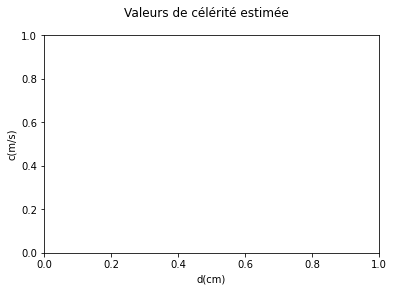
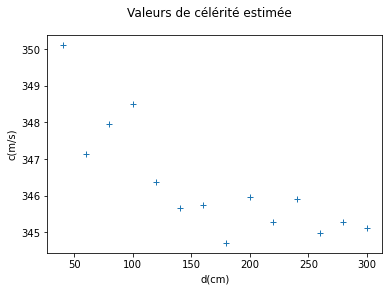
Mise à jour du site

diff --git a/searchindex.js b/searchindex.js
@@ -1,1 +1,1 @@
-Search.setIndex({docnames:["intro_python","notebook/complement","notebook/exo_general","notebook/exo_polyfit","notebook/exo_science","notebook/exo_science_2"],envversion:{"sphinx.domains.c":2,"sphinx.domains.changeset":1,"sphinx.domains.citation":1,"sphinx.domains.cpp":3,"sphinx.domains.index":1,"sphinx.domains.javascript":2,"sphinx.domains.math":2,"sphinx.domains.python":2,"sphinx.domains.rst":2,"sphinx.domains.std":2,"sphinx.ext.intersphinx":1,sphinx:56},filenames:["intro_python.md","notebook/complement.md","notebook/exo_general.md","notebook/exo_polyfit.md","notebook/exo_science.md","notebook/exo_science_2.md"],objects:{},objnames:{},objtypes:{},terms:{"001144379410995":5,"05293999024471903":3,"085e":5,"0x7f1137512eb0":4,"0x7f114441a1f0":4,"0x7f3701688100":[],"0x7f87a7f1be20":[],"0x7f87a88cc370":[],"0x7f8a1bedceb0":[],"0x7f8a1c88c1f0":[],"0x7fa57b695d60":[],"0x7fa58859d1f0":[],"0x7fd43589d7c0":[],"0x7fd4362441f0":[],"0x7ff4d0997e80":[],"0x7ff4d134f1f0":[],"100":[2,3],"1000":5,"1000000":5,"100k":5,"10700":5,"10850":5,"10ml":3,"11000":5,"127":2,"139855247404751":3,"150":3,"164":3,"1741":1,"1742":1,"1743":1,"1744":1,"1745":1,"196":3,"200":3,"2000":[2,4],"208":5,"250":3,"254":2,"271":1,"272":1,"273":1,"274":1,"275":[1,3],"27996e413080":[],"294":3,"300":3,"3315935386808m":5,"345m":5,"346":5,"350":3,"350m":5,"354":3,"396":3,"397":1,"398":1,"399":1,"400":[1,3],"401":1,"450":3,"481":3,"497":3,"500":3,"5050":2,"5177d4a278f0":1,"558":3,"582":3,"5mg":3,"640nm":3,"649nm":3,"665":3,"7337275410079":[],"740":[],"741":3,"8048891cc3a0":1,"985208000000001e":5,"9985":5,"\u00e9cart":5,"\u00e9crire":[2,4,5],"\u00e9crit":1,"\u00e9critur":1,"\u00e9gal":3,"\u00e9l\u00e9ment":[0,1,2],"\u00e9nergi":4,"\u00e9nonc\u00e9":5,"\u00e9quation":[3,5],"\u00e9quival":5,"\u00e9t\u00e9":[1,5],"\u00e9talon":3,"\u00e9tant":[3,4],"\u00e9tude":[1,5],"\u00e9tudi":[3,5],"\u00e9tudi\u00e9":5,"\u00e9tudier":5,"\u00e9viter":1,"\u00e9volut":4,"\u00eatre":[2,4],"acc\u00e8d":[],"affich\u00e9":2,"ajust\u00e9":[],"al\u00e9atoir":[],"am\u00e8n":3,"annonc\u00e9":5,"appel\u00e9":1,"apr\u00e8":5,"associ\u00e9":[3,5],"assur\u00e9":5,"attach\u00e9":4,"biblioth\u00e8qu":[1,4,5],"capacit\u00e9":[3,5],"caract\u00e8r":[1,4,5],"caract\u00e9ristiqu":3,"carat\u00e9ristiqu":3,"carr\u00e9":[1,2,5],"cin\u00e9tiqu":4,"class":0,"coh\u00e9renc":3,"coh\u00e9rent":[3,5],"color\u00e9":3,"compl\u00e8t":[3,5],"compl\u00e9ment":[1,5],"compliqu\u00e9":1,"concat\u00e8n":2,"concat\u00e9n":5,"conna\u00eetr":[],"conseill\u00e9":5,"consid\u00e9r\u00e9":3,"cr\u00e9\u00e9":[2,5],"cr\u00e9e":2,"cr\u00e9er":[2,3,4,5],"cr\u00e9ez":5,"d\u00e9charg":5,"d\u00e9cider":5,"d\u00e9cimal":5,"d\u00e9clench\u00e9":1,"d\u00e9croissant":5,"d\u00e9finit":1,"d\u00e9j\u00e0":1,"d\u00e9passer":3,"d\u00e9pla\u00e7ant":4,"d\u00e9plac\u00e9":5,"d\u00e9router":1,"d\u00e9termin":[],"d\u00e9terminera":3,"degr\u00e9":[],"demand\u00e9":[1,2],"derni\u00e8r":2,"diff\u00e9rent":[3,5],"diff\u00e9rentiel":5,"dilu\u00e9":3,"dispers\u00e9":5,"distill\u00e9":3,"donn\u00e9":[2,3,4],"emp\u00eachent":1,"enl\u00e8v":5,"estim\u00e9":5,"ex\u00e9cut":[1,2],"exp\u00e9rimental":[],"exp\u00e9rimentaux":[],"expliqu\u00e9":5,"ferm\u00e9":1,"forc\u00e9ment":5,"fr\u00e9quemment":[],"g\u00e9lifi\u00e9":3,"g\u00e9rer":2,"gr\u00e2ce":5,"hypoth\u00e8s":3,"imbriqu\u00e9":1,"import":[1,4],"inf\u00e9rieur":[3,5],"ing\u00e9rer":[],"ingurgit\u00e9":3,"int":1,"int\u00e9r\u00eat":[],"interpr\u00e9teur":1,"journali\u00e8r":3,"l\u00e2ch\u00e9":4,"l\u00e9gend":5,"l\u00e9gend\u00e9":5,"l\u00e9gender":[4,5],"lin\u00e9air":[],"lyc\u00e9":0,"m\u00e8re":3,"m\u00e8tre":4,"m\u00e9thode":[3,5],"m\u00eame":[1,3,5],"ma\u00eetris":0,"majorit\u00e9":1,"mani\u00e8r":[1,3],"mat\u00e9riel":4,"mesur\u00e9":[3,5],"mod\u00e8l":[],"n\u00e9cessair":[0,2],"n\u00e9cessit":0,"n\u00e9gligeabl":3,"nomm\u00e9":5,"op\u00e9rat":4,"op\u00e9rateur":[1,2],"op\u00e9ratoir":3,"ordonn\u00e9":4,"p\u00e9riod":4,"patent\u00e9":3,"point\u00e9":1,"polyn\u00f4m":[],"pr\u00e8":5,"pr\u00e9alabl":0,"pr\u00e9c\u00e9demment":[3,5],"pr\u00e9c\u00e9dent":[3,5],"pr\u00e9ciser":2,"pr\u00e9l\u00e8ve":3,"pr\u00e9pa":0,"pr\u00e9sent":[],"pr\u00e9sent\u00e9":5,"pr\u00e9sentat":0,"pr\u00e9senter":[],"pr\u00e9voit":3,"premi\u00e8r":[2,5],"probl\u00e8m":1,"probl\u00e8matiqu":5,"programm\u00e9":5,"propos\u00e9":[3,5],"quantit\u00e9":3,"quatri\u00e8m":4,"r\u00e9alis":3,"r\u00e9alis\u00e9":[3,5],"r\u00e9fl\u00e9chir":[2,3,5],"r\u00e9fl\u00e9chira":4,"r\u00e9flexion":5,"r\u00e9gime":[3,5],"r\u00e9git":5,"r\u00e9gression":[],"r\u00e9gulier":5,"r\u00e9pertoir":[2,5],"r\u00e9pondr":2,"r\u00e9sistanc":3,"r\u00e9sultat":2,"r\u00e9utilis":4,"recherch\u00e9":1,"repr\u00e9sent":[3,4,5],"return":[1,2],"s\u00e9lection":5,"s\u00e9lectionn":5,"s\u00e9rie":2,"s\u00fbr":3,"signal\u00e9":1,"stock\u00e9":5,"sup\u00e9rieur":5,"syst\u00e8m":1,"t\u00e9l\u00e9charg\u00e9":5,"t\u00e9l\u00e9charger":5,"t\u00e9l\u00e9chargerez":5,"th\u00e9oriqu":5,"tir\u00e9":5,"titr\u00e9":5,"tr\u00e8":1,"trac\u00e9":3,"troisi\u00e8m":4,"trouv\u00e9":3,"utilis\u00e9":[1,3],"v\u00e9rific":5,"v\u00e9rifier":[1,2,3,5],"while":2,Les:[2,3,4,5],Une:[3,5],__call__:1,_ax:1,_base:1,_get_lin:1,_plot_arg:1,a_i:3,abciss:4,aberr:3,aberrant:5,absciss:4,absenc:5,accept:5,access:5,adapt:5,add_lin:1,additif:3,admettra:5,admiss:3,affich:[1,2,5],affin:3,afin:5,agit:4,ainsi:[3,5],air:5,ajust:3,algorithm:2,alimentair:3,allant:[],aller:5,allez:[2,4],allon:5,allur:5,alor:[1,3,5],alpha_:3,analys:3,anglai:1,appel:[1,2],append:2,appliqu:1,arduino:5,arg:1,argument:[2,5],arrai:1,arriv:1,arrondi:[],assez:1,attendu:[1,3],attent:[0,5],aurait:5,aussi:[1,3,5],automatiqu:4,automatis:5,autr:5,aux:[2,3,4,5],avec:[1,3,4,5],avez:[0,2,4,5],avoir:[4,5],axe:4,axes:1,b43b36e465ad:1,barr:3,be7f0a92039c:5,beer:3,besoin:[4,5],bien:[1,2,3,5],bilan:3,bin_to_volt:5,binair:5,bleu:3,blue:[],bon:1,bonbon:3,born:5,boucl:[4,5],broadcast:1,bute:1,c859c85d5b52:1,c_0:3,c_i:3,calcul:[1,4,5],calculatric:3,call:[1,5],calm:1,capacit:[3,5],car:[1,2],cbook:1,ceil:[],cela:[3,5],cell:1,centain:4,certain:[1,5],ces:[0,1,2,4,5],cet:5,cett:[0,1,2,3,5],chacun:2,chain:[1,5],chaqu:[2,5],charg:[],chemin:5,chercher:1,chiffr:[3,5],choisir:5,cibl:5,circuit:[3,5],circuit_rc_decharg:5,clair:[1,2,4],clairement:5,classiqu:[],clic:5,cliquer:5,cliquez:[2,4,5],codag:2,code:1,coder:4,coeffici:[],colonn:5,color:[],combien:2,comm:[2,3,5],commenc:5,commencez:2,comment:[],commis:1,comparaison:[],complet:5,comprend:1,comprendr:[2,5],compri:2,compt:[1,3],comptez:5,concentr:3,conclus:3,condensateur:[3,5],conform:5,connaiss:1,connaissez:1,connu:3,conseil:[2,4],consist:5,constant:5,constitu:4,constructeur:5,conten:[3,5],contenu:[2,5],contient:5,contraint:5,corporel:3,correct:[1,5],correspond:5,corrig:[1,2],cos:4,could:1,courant:2,courb:[4,5],courram:[],croix:[2,3,4,5],ctrl:2,dan:[0,2,3,5],dat:5,data:1,def:[1,2],defin:5,delta:5,demand:2,depui:4,des:[0,1,3],descript:5,dessou:[1,2,5],dessu:1,deux:[1,2,3,4,5],devez:[2,4,5],devoir:[2,5],devra:4,devrait:1,devrez:5,devriez:[4,5],dilu:3,dimens:1,dire:3,disciplin:0,dispos:[],dissou:3,distanc:5,distribut:5,dja:3,doit:2,donc:[1,2,3],donn:3,donne:5,donnees_exp:5,donnera:5,dose:3,droit:[3,5],e131:3,e_c:4,e_p:4,eau:3,ecart:5,ecrir:[2,5],effet:1,efficac:1,ell:[1,2,5],endroit:1,enregistr:5,enregistrez:2,ensembl:[0,5],ensuit:[1,2,3,5],entier:[1,2,5],entr:[1,2,3,5],env:1,environ:5,erreur:[2,3],errorbar:3,espac:5,essay:4,est:[1,3,4,5],estim:[3,5],estime_tau:5,exempl:5,exercic:[4,5],existant:1,exp:5,explic:1,express:3,extens:2,fabric:3,fair:[1,5],fait:[0,1,5],faudra:3,fauss:[],faut:[1,2,4],faux:2,fera:5,fermer:1,fichier:[2,4,5],file:1,fin:[2,5],first:1,flottant:5,foi:[2,5],fonction:[3,4,5],fonctionn:[2,5],font:1,form:[2,5],formul:1,fourni:5,frac:[3,4,5],from:1,frottement:4,fur:5,gard:5,garder:[1,3,5],get_next_color:1,getdiv:2,grand:5,grandeur:[3,5],graphiqu:[3,4,5],gross:1,habitud:1,harmoniqu:4,have:1,histogramm:5,ici:[1,2,3,5],identiqu:5,inc_i:3,incertitud:[3,5],inclu:2,indic:[4,5],influenc:3,inform:[4,5],initial:4,input:[1,5],instruct:[1,2,4,5],interval:4,invalid:1,ipython:[1,5],jour:3,jupybook:1,just:[],justement:[],kwarg:1,l_0:4,label:5,lambert:3,langag:0,laquel:2,last:[1,5],left:5,legend:4,len:2,leq:2,les:[0,2,3,4,5],lesquel:5,leur:5,lib:1,libr:[3,5],lien:5,lieu:5,lign:1,limitera:5,line2d:1,line:1,linestyl:5,liquid:3,list:[],localis:5,logiqu:1,loi:3,longueur:[2,3,4],lorsqu:1,m_dja:[],m_max:[],mai:5,mal:1,manger:3,manuel:4,marker:5,mass:[3,4],matplotlib:[1,4,5],maxim:3,maximal:3,mesur:[3,5],micro:3,microcontrolleur:5,microsecond:5,mieux:5,miniconda3:1,mline:1,mode:3,modul:[1,5],mol:3,molair:3,mond:1,montag:5,montrer:4,most:[1,5],mouvement:4,moyen:5,moyenn:[3,5],must:1,n_max:[],name:5,nameerror:5,navigateur:5,ndim:1,nombr:[2,3,5],non:[2,5],normal:5,normalize_kwarg:1,nou:5,nouveau:2,nouvel:1,nul:2,numpi:[1,3,4],observ:[4,5],observez:2,obstacl:5,obtenez:2,obtenir:[3,4,5],obtenu:5,obtient:3,officiel:1,ohm:3,omega:5,omega_0:4,ond:3,onglet:2,ont:[1,5],operand:1,option:[3,5],ordinateur:5,ordr:[3,5],organis:[4,5],origin:[],oscillateur:4,oubli:1,oubliez:[4,5],ouvr:5,ouvrir:[2,5],over:5,packag:1,par:[1,2,4,5],parc:1,parcourir:5,parcouru:2,parl:[],parti:[1,5],particuli:1,partir:5,pas:[1,3,4,5],pass:3,passant:[],penser:1,pensez:[1,4],pent:[],permet:[],permett:[4,5],permettront:1,permi:5,peu:[1,5],peut:[1,2,3,5],plein:4,plot:[1,5],plt:[1,3],plu:[1,5],plusieur:[3,5],point:[1,3,4,5],posit:4,possibl:3,potentiel:4,pour:[1,2,3,4,5],pourquoi:[1,2],pourra:5,pourrez:4,pouvez:5,pow:1,premier:[2,4],prenant:4,prend:[2,5],prendr:5,prendra:[4,5],prenez:1,prennent:2,pri:5,print:[1,2,5],produit:1,programm:[1,5],propag:5,propos:2,propr:2,pui:[2,3,5],puisqu:5,puiss:5,puissanc:1,pyplot:[1,5],python3:1,python:[3,5],pyzo:[2,5],qualit:3,quand:1,quatr:4,que:[0,1,2,3,4,5],quelconqu:[],quell:5,quelqu:[2,4,5],question:2,qui:[0,1,2,3,4,5],raideur:4,rais:1,raisonnabl:1,rang:2,rappel:[3,5],rapport:3,recent:[1,5],red:[],regroup:0,relat:3,relatif:5,reli:5,remarqu:5,rend:[1,3],renverra:2,renvoi:[1,2,5],renvoient:2,renvoy:1,reprend:5,ressort:4,retour:[1,2,5],retrouv:2,right:5,roug:4,sachant:5,sait:5,same:1,san:[3,4,5],sauf:1,savoir:1,scalei:1,scalex:1,scientifiqu:[0,1,5],script:[1,4,5],second:[2,4],self:1,sera:[0,2,5],seront:[0,1,3,4],servant:5,set_ylabel:5,seul:[2,4,5],shape:1,show:3,sigma:5,signal:[1,4],signifi:[],significatif:[3,5],simpl:1,sin:4,site:1,soin:5,soit:[2,3,5],solut:[3,5],somm:2,somme_carr:2,somme_k:2,sommer:1,son:[1,2,5],sont:[1,2,3,4,5],sort:3,sou:[2,5],sourc:3,souvent:[1,4],sqrt:[1,3,4],statistiqu:5,stock:2,stocker:5,str:[1,5],subplot:1,sucr:3,suffisam:4,suit:2,suivant:[2,3,4,5],suivr:[0,4],suppos:4,supprim:3,suptitl:[],sur:[1,2,3,4,5],surtout:1,syntax:1,syntaxerror:1,t_i:5,t_m:5,tableau:5,taill:1,tau:[3,5],tel:[2,3],temp:[0,3,4,5],temporel:4,tenir:3,tension:5,tester:[1,2,3],thi:1,tient:3,time:3,tirag:[],titr:5,titrer:4,togeth:1,tou:[2,5],toujour:[4,5],tout:[1,5],traceback:[1,5],tracer:[3,4,5],trait:4,traitera:5,transform:5,transmettr:5,travail:[0,5],trop:1,trouvent:1,trouver:5,trouverez:[2,5],tube:3,tup:1,type:[1,2,5],typeerror:1,u_0:5,u_c:5,u_i:3,u_sel:5,ucb:5,une:[0,3,4,5],uniform:5,unsupport:1,util:[1,5],utilis:[1,4],utilisera:[2,3],utiliserau:0,utilisez:[4,5],v_1:3,v_2:3,v_f:3,v_m:4,v_t:3,valabl:4,valeur:[1,2,3,5],valueerror:1,variabl:[3,5],variat:4,varier:5,vecteur:[1,3,5],vectorialis:4,vectoriel:4,veillez:5,ver:1,verbeux:1,vert:5,veuill:[],veut:[3,5],vide:4,visuel:[3,5],vitess:4,voici:[1,4],voir:4,voit:[],vol:5,volt:5,volum:3,vont:1,vos:[4,5],votr:[1,2,4,5],vou:[0,1,2,4,5],vrai:2,vraisemblabl:1,x_0:4,x_carr:1,x_i:[],x_m:4,y_adj:[],y_i:[],yerr:3,yield:1},titles:["El\u00e9ments de bases pour programmer en Python","<span class=\"section-number\">1. </span>Comprendre ses erreurs","<span class=\"section-number\">1. </span>S\u2019entra\u00eener.","<span class=\"section-number\">1. </span>S\u2019entra\u00eener (r\u00e9gression lin\u00e9aire)","<span class=\"section-number\">1. </span>S\u2019entra\u00eener","<span class=\"section-number\">2. </span>S\u2019entra\u00eener (Import et tirages al\u00e9atoires)"],titleterms:{"ajust\u00e9":3,"al\u00e9atoir":5,"c\u00e9l\u00e9rit\u00e9":5,"d\u00e9termin":3,"donn\u00e9":5,"el\u00e9ment":0,"entra\u00een":[2,3,4,5],"exp\u00e9rienc":5,"exp\u00e9rimental":5,"import":5,"lin\u00e9air":3,"m\u00eame":2,"mod\u00e8l":3,"parenth\u00e8s":1,"r\u00e9gression":3,"trac\u00e9":4,Les:1,Pas:1,absorb:3,analys:2,base:0,basiqu:1,boucl:2,cas:1,choix:2,code:2,coder:2,comprendr:1,dan:1,des:[2,4,5],diviseur:2,dosag:3,erreur:1,etud:5,exempl:[1,3],exercic:2,fonction:[1,2],les:1,list:2,mai:1,manipul:4,messag:1,multipl:5,numpi:5,par:3,polyfit:[],pour:0,programm:0,python:[0,1],random:5,ses:1,simpl:[2,3,4],soi:2,syntax:[],tirag:5,ultrason:5,une:[1,2],utilis:[2,3,5],vecteur:4}})
+Search.setIndex({docnames:["intro_python","notebook/complement","notebook/exo_general","notebook/exo_polyfit","notebook/exo_science","notebook/exo_science_2"],envversion:{"sphinx.domains.c":2,"sphinx.domains.changeset":1,"sphinx.domains.citation":1,"sphinx.domains.cpp":3,"sphinx.domains.index":1,"sphinx.domains.javascript":2,"sphinx.domains.math":2,"sphinx.domains.python":2,"sphinx.domains.rst":2,"sphinx.domains.std":2,"sphinx.ext.intersphinx":1,sphinx:56},filenames:["intro_python.md","notebook/complement.md","notebook/exo_general.md","notebook/exo_polyfit.md","notebook/exo_science.md","notebook/exo_science_2.md"],objects:{},objnames:{},objtypes:{},terms:{"001144379410995":5,"05293999024471903":3,"085e":5,"0x7f1137512eb0":[],"0x7f114441a1f0":[],"0x7f3701688100":[],"0x7f87a7f1be20":[],"0x7f87a88cc370":[],"0x7f8a1bedceb0":[],"0x7f8a1c88c1f0":[],"0x7fa57b695d60":[],"0x7fa58859d1f0":[],"0x7fd43589d7c0":[],"0x7fd4362441f0":[],"0x7fed7c2fdee0":4,"0x7fed7ccab3a0":4,"0x7ff4d0997e80":[],"0x7ff4d134f1f0":[],"100":[2,3],"1000":5,"1000000":5,"100k":5,"10700":5,"10850":5,"10ml":3,"11000":5,"127":2,"139855247404751":3,"150":3,"164":3,"1741":1,"1742":1,"1743":1,"1744":1,"1745":1,"196":3,"200":3,"2000":[2,4],"208":5,"250":3,"254":2,"271":1,"272":1,"273":1,"274":1,"275":[1,3],"27996e413080":[],"294":3,"300":3,"3315935386808m":5,"345m":5,"346":5,"350":3,"350m":5,"354":3,"396":3,"397":1,"398":1,"399":1,"400":[1,3],"401":1,"450":3,"481":3,"497":3,"500":3,"5050":2,"5177d4a278f0":1,"558":3,"582":3,"5mg":3,"640nm":3,"649nm":3,"665":3,"7337275410079":[],"740":[],"741":3,"8048891cc3a0":1,"985208000000001e":5,"9985":5,"\u00e9cart":5,"\u00e9crire":[2,4,5],"\u00e9crit":1,"\u00e9critur":1,"\u00e9gal":3,"\u00e9l\u00e9ment":[0,1,2],"\u00e9nergi":4,"\u00e9nonc\u00e9":5,"\u00e9quation":[3,5],"\u00e9quival":5,"\u00e9t\u00e9":[1,5],"\u00e9talon":3,"\u00e9tant":[3,4],"\u00e9tude":[1,5],"\u00e9tudi":[3,5],"\u00e9tudi\u00e9":5,"\u00e9tudier":5,"\u00e9viter":1,"\u00e9volut":4,"\u00eatre":[2,4],"acc\u00e8d":[],"affich\u00e9":2,"ajust\u00e9":[],"al\u00e9atoir":[],"am\u00e8n":3,"annonc\u00e9":5,"appel\u00e9":1,"apr\u00e8":5,"associ\u00e9":[3,5],"assur\u00e9":5,"attach\u00e9":4,"biblioth\u00e8qu":[1,4,5],"capacit\u00e9":[3,5],"caract\u00e8r":[1,4,5],"caract\u00e9ristiqu":3,"carat\u00e9ristiqu":3,"carr\u00e9":[1,2,5],"cin\u00e9tiqu":4,"class":0,"coh\u00e9renc":3,"coh\u00e9rent":[3,5],"color\u00e9":3,"compl\u00e8t":[3,5],"compl\u00e9ment":[1,5],"compliqu\u00e9":1,"concat\u00e8n":2,"concat\u00e9n":5,"conna\u00eetr":[],"conseill\u00e9":5,"consid\u00e9r\u00e9":3,"cr\u00e9\u00e9":[2,5],"cr\u00e9e":2,"cr\u00e9er":[2,3,4,5],"cr\u00e9ez":5,"d\u00e9charg":5,"d\u00e9cider":5,"d\u00e9cimal":5,"d\u00e9clench\u00e9":1,"d\u00e9croissant":5,"d\u00e9finit":1,"d\u00e9j\u00e0":1,"d\u00e9passer":3,"d\u00e9pla\u00e7ant":4,"d\u00e9plac\u00e9":5,"d\u00e9router":1,"d\u00e9termin":[],"d\u00e9terminera":3,"degr\u00e9":[],"demand\u00e9":[1,2],"derni\u00e8r":2,"diff\u00e9rent":[3,5],"diff\u00e9rentiel":5,"dilu\u00e9":3,"dispers\u00e9":5,"distill\u00e9":3,"donn\u00e9":[2,3,4],"emp\u00eachent":1,"enl\u00e8v":5,"estim\u00e9":5,"ex\u00e9cut":[1,2],"exp\u00e9rimental":[],"exp\u00e9rimentaux":[],"expliqu\u00e9":5,"ferm\u00e9":1,"forc\u00e9ment":5,"fr\u00e9quemment":[],"g\u00e9lifi\u00e9":3,"g\u00e9rer":2,"gr\u00e2ce":5,"hypoth\u00e8s":3,"imbriqu\u00e9":1,"import":[1,4],"inf\u00e9rieur":[3,5],"ing\u00e9rer":[],"ingurgit\u00e9":3,"int":1,"int\u00e9r\u00eat":[],"interpr\u00e9teur":1,"journali\u00e8r":3,"l\u00e2ch\u00e9":4,"l\u00e9gend":5,"l\u00e9gend\u00e9":5,"l\u00e9gender":[4,5],"lin\u00e9air":[],"lyc\u00e9":0,"m\u00e8re":3,"m\u00e8tre":4,"m\u00e9thode":[3,5],"m\u00eame":[1,3,5],"ma\u00eetris":0,"majorit\u00e9":1,"mani\u00e8r":[1,3],"mat\u00e9riel":4,"mesur\u00e9":[3,5],"mod\u00e8l":[],"n\u00e9cessair":[0,2],"n\u00e9cessit":0,"n\u00e9gligeabl":3,"nomm\u00e9":5,"op\u00e9rat":4,"op\u00e9rateur":[1,2],"op\u00e9ratoir":3,"ordonn\u00e9":4,"p\u00e9riod":4,"patent\u00e9":3,"point\u00e9":1,"polyn\u00f4m":[],"pr\u00e8":5,"pr\u00e9alabl":0,"pr\u00e9c\u00e9demment":[3,5],"pr\u00e9c\u00e9dent":[3,5],"pr\u00e9ciser":2,"pr\u00e9l\u00e8ve":3,"pr\u00e9pa":0,"pr\u00e9sent":[],"pr\u00e9sent\u00e9":5,"pr\u00e9sentat":0,"pr\u00e9senter":[],"pr\u00e9voit":3,"premi\u00e8r":[2,5],"probl\u00e8m":1,"probl\u00e8matiqu":5,"programm\u00e9":5,"propos\u00e9":[3,5],"quantit\u00e9":3,"quatri\u00e8m":4,"r\u00e9alis":3,"r\u00e9alis\u00e9":[3,5],"r\u00e9fl\u00e9chir":[2,3,5],"r\u00e9fl\u00e9chira":4,"r\u00e9flexion":5,"r\u00e9gime":[3,5],"r\u00e9git":5,"r\u00e9gression":[],"r\u00e9gulier":5,"r\u00e9pertoir":[2,5],"r\u00e9pondr":2,"r\u00e9sistanc":3,"r\u00e9sultat":2,"r\u00e9utilis":4,"recherch\u00e9":1,"repr\u00e9sent":[3,4,5],"return":[1,2],"s\u00e9lection":5,"s\u00e9lectionn":5,"s\u00e9rie":2,"s\u00fbr":3,"signal\u00e9":1,"stock\u00e9":5,"sup\u00e9rieur":5,"syst\u00e8m":1,"t\u00e9l\u00e9charg\u00e9":5,"t\u00e9l\u00e9charger":5,"t\u00e9l\u00e9chargerez":5,"th\u00e9oriqu":5,"tir\u00e9":5,"titr\u00e9":5,"tr\u00e8":1,"trac\u00e9":3,"troisi\u00e8m":4,"trouv\u00e9":3,"utilis\u00e9":[1,3],"v\u00e9rific":5,"v\u00e9rifier":[1,2,3,5],"while":2,Les:[2,3,4,5],Une:[3,5],__call__:1,_ax:1,_base:1,_get_lin:1,_plot_arg:1,a_i:3,abciss:4,aberr:3,aberrant:5,absciss:4,absenc:5,accept:5,access:5,adapt:5,add_lin:1,additif:3,admettra:5,admiss:3,affich:[1,2,5],affin:3,afin:5,agit:4,ainsi:[3,5],air:5,ajust:3,algorithm:2,alimentair:3,allant:[],aller:5,allez:[2,4],allon:5,allur:5,alor:[1,3,5],alpha_:3,analys:3,anglai:1,appel:[1,2],append:2,appliqu:1,arduino:5,arg:1,argument:[2,5],arrai:1,arriv:1,arrondi:[],assez:1,attendu:[1,3],attent:[0,5],aurait:5,aussi:[1,3,5],automatiqu:4,automatis:5,autr:5,aux:[2,3,4,5],avec:[1,3,4,5],avez:[0,2,4,5],avoir:[4,5],axe:4,axes:1,b43b36e465ad:1,barr:3,be7f0a92039c:[],beer:3,besoin:[4,5],bien:[1,2,3,5],bilan:3,bin_to_volt:5,binair:5,bleu:3,blue:[],bon:1,bonbon:3,born:5,boucl:[4,5],broadcast:1,bute:1,c859c85d5b52:1,c_0:3,c_i:3,calcul:[1,4,5],calculatric:3,call:1,calm:1,capacit:[3,5],car:[1,2],cbook:1,ceil:[],cela:[3,5],cell:1,centain:4,certain:[1,5],ces:[0,1,2,4,5],cet:5,cett:[0,1,2,3,5],chacun:2,chain:[1,5],chaqu:[2,5],charg:[],chemin:5,chercher:1,chiffr:[3,5],choisir:5,cibl:5,circuit:[3,5],circuit_rc_decharg:5,clair:[1,2,4],clairement:5,classiqu:[],clic:5,cliquer:5,cliquez:[2,4,5],codag:2,code:1,coder:4,coeffici:[],colonn:5,color:[],combien:2,comm:[2,3,5],commenc:5,commencez:2,comment:[],commis:1,comparaison:[],complet:5,comprend:1,comprendr:[2,5],compri:2,compt:[1,3],comptez:5,concentr:3,conclus:3,condensateur:[3,5],conform:5,connaiss:1,connaissez:1,connu:3,conseil:[2,4],consist:5,constant:5,constitu:4,constructeur:5,conten:[3,5],contenu:[2,5],contient:5,contraint:5,corporel:3,correct:[1,5],correspond:5,corrig:[1,2],cos:4,could:1,courant:2,courb:[4,5],courram:[],croix:[2,3,4,5],ctrl:2,dan:[0,2,3,5],dat:5,data:1,def:[1,2],defin:[],delta:5,demand:2,depui:4,des:[0,1,3],descript:5,dessou:[1,2,5],dessu:1,deux:[1,2,3,4,5],devez:[2,4,5],devoir:[2,5],devra:4,devrait:1,devrez:5,devriez:[4,5],dilu:3,dimens:1,dire:3,disciplin:0,dispos:[],dissou:3,distanc:5,distribut:5,dja:3,doit:2,donc:[1,2,3],donn:3,donne:5,donnees_exp:5,donnera:5,dose:3,droit:[3,5],e131:3,e_c:4,e_p:4,eau:3,ecart:5,ecrir:[2,5],effet:1,efficac:1,ell:[1,2,5],endroit:1,enregistr:5,enregistrez:2,ensembl:[0,5],ensuit:[1,2,3,5],entier:[1,2,5],entr:[1,2,3,5],env:1,environ:5,erreur:[2,3],errorbar:3,espac:5,essay:4,est:[1,3,4,5],estim:[3,5],estime_tau:5,exempl:5,exercic:[4,5],existant:1,exp:5,explic:1,express:3,extens:2,fabric:3,fair:[1,5],fait:[0,1,5],faudra:3,fauss:[],faut:[1,2,4],faux:2,fera:5,fermer:1,fichier:[2,4,5],file:1,fin:[2,5],first:1,flottant:5,foi:[2,5],fonction:[3,4,5],fonctionn:[2,5],font:1,form:[2,5],formul:1,fourni:5,frac:[3,4,5],from:1,frottement:4,fur:5,gard:5,garder:[1,3,5],get_next_color:1,getdiv:2,grand:5,grandeur:[3,5],graphiqu:[3,4,5],gross:1,habitud:1,harmoniqu:4,have:1,histogramm:5,ici:[1,2,3,5],identiqu:5,inc_i:3,incertitud:[3,5],inclu:2,indic:[4,5],influenc:3,inform:[4,5],initial:4,input:1,instruct:[1,2,4,5],interval:4,invalid:1,ipython:1,jour:3,jupybook:1,just:[],justement:[],kwarg:1,l_0:4,label:5,lambert:3,langag:0,laquel:2,last:1,left:5,legend:4,len:2,leq:2,les:[0,2,3,4,5],lesquel:5,leur:5,lib:1,libr:[3,5],lien:5,lieu:5,lign:1,limitera:5,line2d:1,line:1,linestyl:[],liquid:3,list:[],localis:5,logiqu:1,loi:3,longueur:[2,3,4],lorsqu:1,m_dja:[],m_max:[],mai:5,mal:1,manger:3,manuel:4,marker:[],mass:[3,4],matplotlib:[1,4,5],maxim:3,maximal:3,mesur:[3,5],micro:3,microcontrolleur:5,microsecond:5,mieux:5,miniconda3:1,mline:1,mode:3,modul:1,mol:3,molair:3,mond:1,montag:5,montrer:4,most:1,mouvement:4,moyen:5,moyenn:[3,5],must:1,n_max:[],name:[],nameerror:[],navigateur:5,ndim:1,nombr:[2,3,5],non:[2,5],normal:5,normalize_kwarg:1,nou:5,nouveau:2,nouvel:1,nul:2,numpi:[1,3,4],observ:[4,5],observez:2,obstacl:5,obtenez:2,obtenir:[3,4,5],obtenu:5,obtient:3,officiel:1,ohm:3,omega:5,omega_0:4,ond:3,onglet:2,ont:[1,5],operand:1,option:[3,5],ordinateur:5,ordr:[3,5],organis:[4,5],origin:[],oscillateur:4,oubli:1,oubliez:[4,5],ouvr:5,ouvrir:[2,5],over:5,packag:1,par:[1,2,4,5],parc:1,parcourir:5,parcouru:2,parl:[],parti:[1,5],particuli:1,partir:5,pas:[1,3,4,5],pass:3,passant:[],penser:1,pensez:[1,4],pent:[],permet:[],permett:[4,5],permettront:1,permi:5,peu:[1,5],peut:[1,2,3,5],plein:4,plot:1,plt:[1,3],plu:[1,5],plusieur:[3,5],point:[1,3,4],posit:4,possibl:3,potentiel:4,pour:[1,2,3,4,5],pourquoi:[1,2],pourra:5,pourrez:4,pouvez:5,pow:1,premier:[2,4],prenant:4,prend:[2,5],prendr:5,prendra:[4,5],prenez:1,prennent:2,pri:5,print:[1,2,5],produit:1,programm:[1,5],propag:5,propos:2,propr:2,pui:[2,3,5],puisqu:5,puiss:5,puissanc:1,pyplot:[1,5],python3:1,python:[3,5],pyzo:[2,5],qualit:3,quand:1,quatr:4,que:[0,1,2,3,4,5],quelconqu:[],quell:5,quelqu:[2,4,5],question:2,qui:[0,1,2,3,4,5],raideur:4,rais:1,raisonnabl:1,rang:2,rappel:[3,5],rapport:3,recent:1,red:[],regroup:0,relat:3,relatif:5,reli:[],remarqu:5,rend:[1,3],renverra:2,renvoi:[1,2,5],renvoient:2,renvoy:1,reprend:5,ressort:4,retour:[1,2,5],retrouv:2,right:5,roug:4,sachant:5,sait:5,same:1,san:[3,4,5],sauf:1,savoir:1,scalei:1,scalex:1,scientifiqu:[0,1,5],script:[1,4,5],second:[2,4],self:1,sera:[0,2,5],seront:[0,1,3,4],servant:5,set_ylabel:[],seul:[2,4,5],shape:1,show:3,sigma:5,signal:[1,4],signifi:[],significatif:[3,5],simpl:1,sin:4,site:1,soin:5,soit:[2,3,5],solut:[3,5],somm:2,somme_carr:2,somme_k:2,sommer:1,son:[1,2,5],sont:[1,2,3,4,5],sort:3,sou:[2,5],sourc:3,souvent:[1,4],sqrt:[1,3,4],statistiqu:5,stock:2,stocker:5,str:[1,5],subplot:1,sucr:3,suffisam:4,suit:2,suivant:[2,3,4,5],suivr:[0,4],suppos:4,supprim:3,suptitl:[],sur:[1,2,3,4,5],surtout:1,syntax:1,syntaxerror:1,t_i:5,t_m:5,tableau:5,taill:1,tau:[3,5],tel:[2,3],temp:[0,3,4,5],temporel:4,tenir:3,tension:5,tester:[1,2,3],thi:1,tient:3,time:3,tirag:[],titr:5,titrer:4,togeth:1,tou:[2,5],toujour:[4,5],tout:[1,5],traceback:1,tracer:[3,4,5],trait:4,traitera:5,transform:5,transmettr:5,travail:[0,5],trop:1,trouvent:1,trouver:5,trouverez:[2,5],tube:3,tup:1,type:[1,2,5],typeerror:1,u_0:5,u_c:5,u_i:3,u_sel:5,ucb:5,une:[0,3,4,5],uniform:5,unsupport:1,util:[1,5],utilis:[1,4],utilisera:[2,3],utiliserau:0,utilisez:[4,5],v_1:3,v_2:3,v_f:3,v_m:4,v_t:3,valabl:4,valeur:[1,2,3,5],valueerror:1,variabl:[3,5],variat:4,varier:5,vecteur:[1,3,5],vectorialis:4,vectoriel:4,veillez:5,ver:1,verbeux:1,vert:5,veuill:[],veut:[3,5],vide:4,visuel:[3,5],vitess:4,voici:[1,4],voir:4,voit:[],vol:5,volt:5,volum:3,vont:1,vos:[4,5],votr:[1,2,4,5],vou:[0,1,2,4,5],vrai:2,vraisemblabl:1,x_0:4,x_carr:1,x_i:[],x_m:4,y_adj:[],y_i:[],yerr:3,yield:1},titles:["El\u00e9ments de bases pour programmer en Python","<span class=\"section-number\">1. </span>Comprendre ses erreurs","<span class=\"section-number\">1. </span>S\u2019entra\u00eener.","<span class=\"section-number\">1. </span>S\u2019entra\u00eener (r\u00e9gression lin\u00e9aire)","<span class=\"section-number\">1. </span>S\u2019entra\u00eener","<span class=\"section-number\">2. </span>S\u2019entra\u00eener (Import et tirages al\u00e9atoires)"],titleterms:{"ajust\u00e9":3,"al\u00e9atoir":5,"c\u00e9l\u00e9rit\u00e9":5,"d\u00e9termin":3,"donn\u00e9":5,"el\u00e9ment":0,"entra\u00een":[2,3,4,5],"exp\u00e9rienc":5,"exp\u00e9rimental":5,"import":5,"lin\u00e9air":3,"m\u00eame":2,"mod\u00e8l":3,"parenth\u00e8s":1,"r\u00e9gression":3,"trac\u00e9":4,Les:1,Pas:1,absorb:3,analys:2,base:0,basiqu:1,boucl:2,cas:1,choix:2,code:2,coder:2,comprendr:1,dan:1,des:[2,4,5],diviseur:2,dosag:3,erreur:1,etud:5,exempl:[1,3],exercic:2,fonction:[1,2],les:1,list:2,mai:1,manipul:4,messag:1,multipl:5,numpi:5,par:3,polyfit:[],pour:0,programm:0,python:[0,1],random:5,ses:1,simpl:[2,3,4],soi:2,syntax:[],tirag:5,ultrason:5,une:[1,2],utilis:[2,3,5],vecteur:4}})

diff --git a/notebook/exo_polyfit.html b/notebook/exo_polyfit.html
@@ -275,51 +275,51 @@
 <div class="cell tag_remove-input docutils container">
 <div class="cell_output docutils container">
 <div class="output text_html"><style  type="text/css" >
-</style><table id="T_215dd_" ><thead>    <tr>        <th class="blank level0" ></th>        <th class="col_heading level0 col0" >R(Ohm)</th>        <th class="col_heading level0 col1" >tau(micro s)</th>    </tr></thead><tbody>
+</style><table id="T_d3bc0_" ><thead>    <tr>        <th class="blank level0" ></th>        <th class="col_heading level0 col0" >R(Ohm)</th>        <th class="col_heading level0 col1" >tau(micro s)</th>    </tr></thead><tbody>
                 <tr>
-                        <th id="T_215dd_level0_row0" class="row_heading level0 row0" >0</th>
-                        <td id="T_215dd_row0_col0" class="data row0 col0" >100.00</td>
-                        <td id="T_215dd_row0_col1" class="data row0 col1" >164.00</td>
+                        <th id="T_d3bc0_level0_row0" class="row_heading level0 row0" >0</th>
+                        <td id="T_d3bc0_row0_col0" class="data row0 col0" >100.00</td>
+                        <td id="T_d3bc0_row0_col1" class="data row0 col1" >164.00</td>
             </tr>
             <tr>
-                        <th id="T_215dd_level0_row1" class="row_heading level0 row1" >1</th>
-                        <td id="T_215dd_row1_col0" class="data row1 col0" >150.00</td>
-                        <td id="T_215dd_row1_col1" class="data row1 col1" >196.00</td>
+                        <th id="T_d3bc0_level0_row1" class="row_heading level0 row1" >1</th>
+                        <td id="T_d3bc0_row1_col0" class="data row1 col0" >150.00</td>
+                        <td id="T_d3bc0_row1_col1" class="data row1 col1" >196.00</td>
             </tr>
             <tr>
-                        <th id="T_215dd_level0_row2" class="row_heading level0 row2" >2</th>
-                        <td id="T_215dd_row2_col0" class="data row2 col0" >200.00</td>
-                        <td id="T_215dd_row2_col1" class="data row2 col1" >275.00</td>
+                        <th id="T_d3bc0_level0_row2" class="row_heading level0 row2" >2</th>
+                        <td id="T_d3bc0_row2_col0" class="data row2 col0" >200.00</td>
+                        <td id="T_d3bc0_row2_col1" class="data row2 col1" >275.00</td>
             </tr>
             <tr>
-                        <th id="T_215dd_level0_row3" class="row_heading level0 row3" >3</th>
-                        <td id="T_215dd_row3_col0" class="data row3 col0" >250.00</td>
-                        <td id="T_215dd_row3_col1" class="data row3 col1" >294.00</td>
+                        <th id="T_d3bc0_level0_row3" class="row_heading level0 row3" >3</th>
+                        <td id="T_d3bc0_row3_col0" class="data row3 col0" >250.00</td>
+                        <td id="T_d3bc0_row3_col1" class="data row3 col1" >294.00</td>
             </tr>
             <tr>
-                        <th id="T_215dd_level0_row4" class="row_heading level0 row4" >4</th>
-                        <td id="T_215dd_row4_col0" class="data row4 col0" >300.00</td>
-                        <td id="T_215dd_row4_col1" class="data row4 col1" >354.00</td>
+                        <th id="T_d3bc0_level0_row4" class="row_heading level0 row4" >4</th>
+                        <td id="T_d3bc0_row4_col0" class="data row4 col0" >300.00</td>
+                        <td id="T_d3bc0_row4_col1" class="data row4 col1" >354.00</td>
             </tr>
             <tr>
-                        <th id="T_215dd_level0_row5" class="row_heading level0 row5" >5</th>
-                        <td id="T_215dd_row5_col0" class="data row5 col0" >350.00</td>
-                        <td id="T_215dd_row5_col1" class="data row5 col1" >396.00</td>
+                        <th id="T_d3bc0_level0_row5" class="row_heading level0 row5" >5</th>
+                        <td id="T_d3bc0_row5_col0" class="data row5 col0" >350.00</td>
+                        <td id="T_d3bc0_row5_col1" class="data row5 col1" >396.00</td>
             </tr>
             <tr>
-                        <th id="T_215dd_level0_row6" class="row_heading level0 row6" >6</th>
-                        <td id="T_215dd_row6_col0" class="data row6 col0" >400.00</td>
-                        <td id="T_215dd_row6_col1" class="data row6 col1" >481.00</td>
+                        <th id="T_d3bc0_level0_row6" class="row_heading level0 row6" >6</th>
+                        <td id="T_d3bc0_row6_col0" class="data row6 col0" >400.00</td>
+                        <td id="T_d3bc0_row6_col1" class="data row6 col1" >481.00</td>
             </tr>
             <tr>
-                        <th id="T_215dd_level0_row7" class="row_heading level0 row7" >7</th>
-                        <td id="T_215dd_row7_col0" class="data row7 col0" >450.00</td>
-                        <td id="T_215dd_row7_col1" class="data row7 col1" >497.00</td>
+                        <th id="T_d3bc0_level0_row7" class="row_heading level0 row7" >7</th>
+                        <td id="T_d3bc0_row7_col0" class="data row7 col0" >450.00</td>
+                        <td id="T_d3bc0_row7_col1" class="data row7 col1" >497.00</td>
             </tr>
             <tr>
-                        <th id="T_215dd_level0_row8" class="row_heading level0 row8" >8</th>
-                        <td id="T_215dd_row8_col0" class="data row8 col0" >500.00</td>
-                        <td id="T_215dd_row8_col1" class="data row8 col1" >558.00</td>
+                        <th id="T_d3bc0_level0_row8" class="row_heading level0 row8" >8</th>
+                        <td id="T_d3bc0_row8_col0" class="data row8 col0" >500.00</td>
+                        <td id="T_d3bc0_row8_col1" class="data row8 col1" >558.00</td>
             </tr>
     </tbody></table></div></div>
 </div>
@@ -368,31 +368,31 @@
 <div class="cell tag_remove-input docutils container">
 <div class="cell_output docutils container">
 <div class="output text_html"><style  type="text/css" >
-</style><table id="T_e7474_" ><thead>    <tr>        <th class="blank level0" ></th>        <th class="col_heading level0 col0" >Vi(mL)</th>        <th class="col_heading level0 col1" >A(SI)</th>    </tr></thead><tbody>
+</style><table id="T_cc1a7_" ><thead>    <tr>        <th class="blank level0" ></th>        <th class="col_heading level0 col0" >Vi(mL)</th>        <th class="col_heading level0 col1" >A(SI)</th>    </tr></thead><tbody>
                 <tr>
-                        <th id="T_e7474_level0_row0" class="row_heading level0 row0" >0</th>
-                        <td id="T_e7474_row0_col0" class="data row0 col0" >1.00</td>
-                        <td id="T_e7474_row0_col1" class="data row0 col1" >0.13</td>
+                        <th id="T_cc1a7_level0_row0" class="row_heading level0 row0" >0</th>
+                        <td id="T_cc1a7_row0_col0" class="data row0 col0" >1.00</td>
+                        <td id="T_cc1a7_row0_col1" class="data row0 col1" >0.13</td>
             </tr>
             <tr>
-                        <th id="T_e7474_level0_row1" class="row_heading level0 row1" >1</th>
-                        <td id="T_e7474_row1_col0" class="data row1 col0" >2.50</td>
-                        <td id="T_e7474_row1_col1" class="data row1 col1" >0.43</td>
+                        <th id="T_cc1a7_level0_row1" class="row_heading level0 row1" >1</th>
+                        <td id="T_cc1a7_row1_col0" class="data row1 col0" >2.50</td>
+                        <td id="T_cc1a7_row1_col1" class="data row1 col1" >0.43</td>
             </tr>
             <tr>
-                        <th id="T_e7474_level0_row2" class="row_heading level0 row2" >2</th>
-                        <td id="T_e7474_row2_col0" class="data row2 col0" >5.00</td>
-                        <td id="T_e7474_row2_col1" class="data row2 col1" >0.83</td>
+                        <th id="T_cc1a7_level0_row2" class="row_heading level0 row2" >2</th>
+                        <td id="T_cc1a7_row2_col0" class="data row2 col0" >5.00</td>
+                        <td id="T_cc1a7_row2_col1" class="data row2 col1" >0.83</td>
             </tr>
             <tr>
-                        <th id="T_e7474_level0_row3" class="row_heading level0 row3" >3</th>
-                        <td id="T_e7474_row3_col0" class="data row3 col0" >7.50</td>
-                        <td id="T_e7474_row3_col1" class="data row3 col1" >1.27</td>
+                        <th id="T_cc1a7_level0_row3" class="row_heading level0 row3" >3</th>
+                        <td id="T_cc1a7_row3_col0" class="data row3 col0" >7.50</td>
+                        <td id="T_cc1a7_row3_col1" class="data row3 col1" >1.27</td>
             </tr>
             <tr>
-                        <th id="T_e7474_level0_row4" class="row_heading level0 row4" >4</th>
-                        <td id="T_e7474_row4_col0" class="data row4 col0" >10.00</td>
-                        <td id="T_e7474_row4_col1" class="data row4 col1" >1.76</td>
+                        <th id="T_cc1a7_level0_row4" class="row_heading level0 row4" >4</th>
+                        <td id="T_cc1a7_row4_col0" class="data row4 col0" >10.00</td>
+                        <td id="T_cc1a7_row4_col1" class="data row4 col1" >1.76</td>
             </tr>
     </tbody></table></div></div>
 </div>

diff --git a/notebook/exo_science_2.html b/notebook/exo_science_2.html
@@ -441,16 +441,7 @@ Valeur estimée de C : 9.985208000000001e-08
 </div>
 <div class="cell tag_remove-input tag_hide-output docutils container">
 <div class="cell_output docutils container">
-<div class="output traceback highlight-ipythontb notranslate"><div class="highlight"><pre><span></span><span class="gt">---------------------------------------------------------------------------</span>
-<span class="ne">NameError</span><span class="g g-Whitespace">                                 </span>Traceback (most recent call last)
-<span class="o">&lt;</span><span class="n">ipython</span><span class="o">-</span><span class="nb">input</span><span class="o">-</span><span class="mi">5</span><span class="o">-</span><span class="n">be7f0a92039c</span><span class="o">&gt;</span> <span class="ow">in</span> <span class="o">&lt;</span><span class="n">module</span><span class="o">&gt;</span>
-<span class="g g-Whitespace">     </span><span class="mi">31</span> <span class="n">ax</span><span class="o">.</span><span class="n">set_ylabel</span><span class="p">(</span><span class="s2">&quot;c(m/s)&quot;</span><span class="p">)</span>
-<span class="g g-Whitespace">     </span><span class="mi">32</span> 
-<span class="ne">---&gt; </span><span class="mi">33</span> <span class="n">ax</span><span class="o">.</span><span class="n">plot</span><span class="p">(</span><span class="n">distances</span><span class="p">,</span> <span class="n">cs</span><span class="p">,</span> <span class="n">label</span><span class="o">=</span><span class="s2">&quot;Célérité&quot;</span><span class="p">,</span> <span class="n">marker</span><span class="o">=</span><span class="s1">&#39;+&#39;</span><span class="p">,</span> <span class="n">linestyle</span><span class="o">=</span><span class="s1">&#39;&#39;</span><span class="p">)</span>  <span class="c1"># On ne relie pas les points.</span>
-<span class="g g-Whitespace">     </span><span class="mi">34</span> 
-<span class="g g-Whitespace">     </span><span class="mi">35</span> <span class="nb">print</span><span class="p">(</span><span class="s2">&quot;On observe des valeurs entre 345m/s et 350m/s soit des valeurs peu dispersées.&quot;</span><span class="p">)</span>
-
-<span class="ne">NameError</span>: name &#39;distances&#39; is not defined
+<div class="output stream highlight-myst-ansi notranslate"><div class="highlight"><pre><span></span>On observe des valeurs entre 345m/s et 350m/s soit des valeurs peu dispersées.
 </pre></div>
 </div>
 <img alt="../_images/exo_science_2_9_1.png" src="../_images/exo_science_2_9_1.png" />

diff --git a/notebook/exo_science.html b/notebook/exo_science.html
@@ -294,7 +294,7 @@ Quelques indices pour s’organiser<div class="summary-down docutils">
 </details><p>Vous devriez obtenir le graphique suivant (cliquez sur la croix).</p>
 <div class="cell tag_remove-input tag_hide-output docutils container">
 <div class="cell_output docutils container">
-<div class="output text_plain highlight-myst-ansi notranslate"><div class="highlight"><pre><span></span>&lt;matplotlib.legend.Legend at 0x7f114441a1f0&gt;
+<div class="output text_plain highlight-myst-ansi notranslate"><div class="highlight"><pre><span></span>&lt;matplotlib.legend.Legend at 0x7fed7ccab3a0&gt;
 </pre></div>
 </div>
 <img alt="../_images/exo_science_2_1.png" src="../_images/exo_science_2_1.png" />
@@ -331,7 +331,7 @@ x_M(t) = (X_0 - l_0) \cos (\omega_0 t) + l_0
 </div>
 <div class="cell tag_remove-input tag_hide-output docutils container">
 <div class="cell_output docutils container">
-<div class="output text_plain highlight-myst-ansi notranslate"><div class="highlight"><pre><span></span>&lt;matplotlib.legend.Legend at 0x7f1137512eb0&gt;
+<div class="output text_plain highlight-myst-ansi notranslate"><div class="highlight"><pre><span></span>&lt;matplotlib.legend.Legend at 0x7fed7c2fdee0&gt;
 </pre></div>
 </div>
 <img alt="../_images/exo_science_4_1.png" src="../_images/exo_science_4_1.png" />

diff --git a/_sources/notebook/exo_science_2.md b/_sources/notebook/exo_science_2.md
@@ -235,6 +235,7 @@ _Compléments utiles_:
 ```{code-cell}
 :tags: [remove-input, hide-output]
 donnees = np.loadtxt('Sf6/vitesse_son_2.dat', skiprows=10, delimiter=",")
+distances = donnees[:, 0]  # Récupération des distances.
 
 """Tracé des histogrammes"""
 f, ax = plt.subplots()
